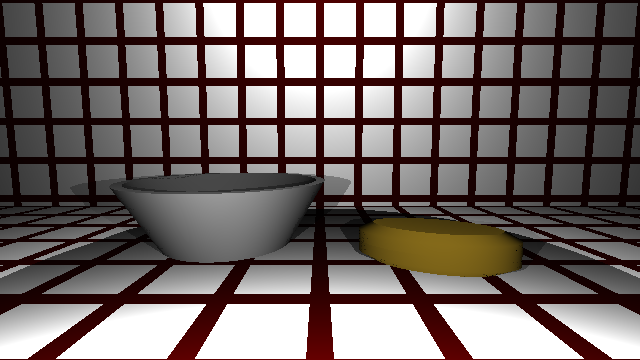
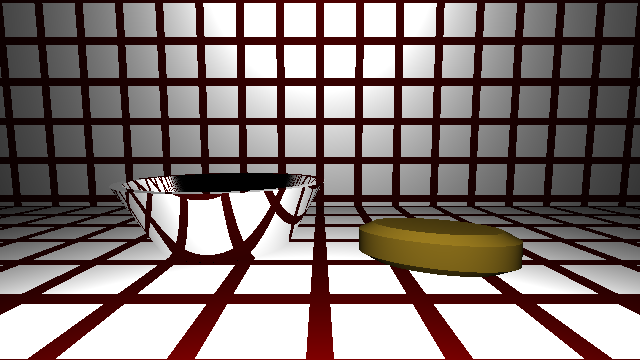
Hardly simplified computation of normals for cone. Have a look, @panmari
This should work since the canonic cone is based on x^2 + y^2 = z^2.
This leads to an 'inner angle' of 90deg. Imagine a simple example in 2D with the equation x^2 = y^2.

Changed region(s): [[0.0, 0.4583, 1.0, 1.0]]

diff --git a/rt/src/rt/intersectables/CSGTwoSidedInfiniteCone.java b/rt/src/rt/intersectables/CSGTwoSidedInfiniteCone.java
@@ -27,7 +27,6 @@ public class CSGTwoSidedInfiniteCone extends CSGSolid {
 
 	public CSGTwoSidedInfiniteCone(Vector3f center, Material material) {
 		this.center = center;
-
 		this.material = material;
 	}
 
@@ -72,12 +71,18 @@ public class CSGTwoSidedInfiniteCone extends CSGSolid {
 
 		b1.hitRecord = intersectCone(r, t_near);
 		b1.t = t_near;
-		b1.type = BoundaryType.START;
-
+		
 		b2.hitRecord = intersectCone(r, t_far);
 		b2.t = t_far;
-		b2.type = BoundaryType.END;
-
+		
+		if(r.direction.dot(b1.hitRecord.normal) < 0){
+			b1.type = BoundaryType.START;
+			b2.type = BoundaryType.END;
+		}else{
+			b1.type = BoundaryType.END;
+			b2.type = BoundaryType.START;
+		}
+		
 		boundaries.add(b1);
 		boundaries.add(b2);
 
@@ -86,20 +91,10 @@ public class CSGTwoSidedInfiniteCone extends CSGSolid {
 
 	private HitRecord intersectCone(Ray r, float t) {
 		Vector3f position = new Vector3f(r.direction);
-		position.scaleAdd(t, r.origin);
+		position.scaleAdd(t, r.origin); // position is the hit point on the surface
 
-		Vector3f normalCyl = new Vector3f(position); // b!
-		normalCyl.sub(center);
-		normalCyl.z = 0;
-
-		Vector3f a = new Vector3f(0, 0, 1);
-
-		Vector3f tangent = new Vector3f();
-		tangent.cross(a, normalCyl);
-
-		Vector3f normal = new Vector3f();
-		normal.cross(position, tangent);
-		normal.normalize();
+		Vector3f normal = new Vector3f(position);
+		normal.z *= -1;
 
 		// wIn is incident direction; convention is that it points away from
 		// surface
@@ -107,7 +102,7 @@ public class CSGTwoSidedInfiniteCone extends CSGSolid {
 		wIn.negate();
 		wIn.normalize();
 
-		return new HitRecord(t, position, normalCyl, wIn, this, material, 0.f,
+		return new HitRecord(t, position, normal, wIn, this, material, 0.f,
 				0.f);
 	}
 }
